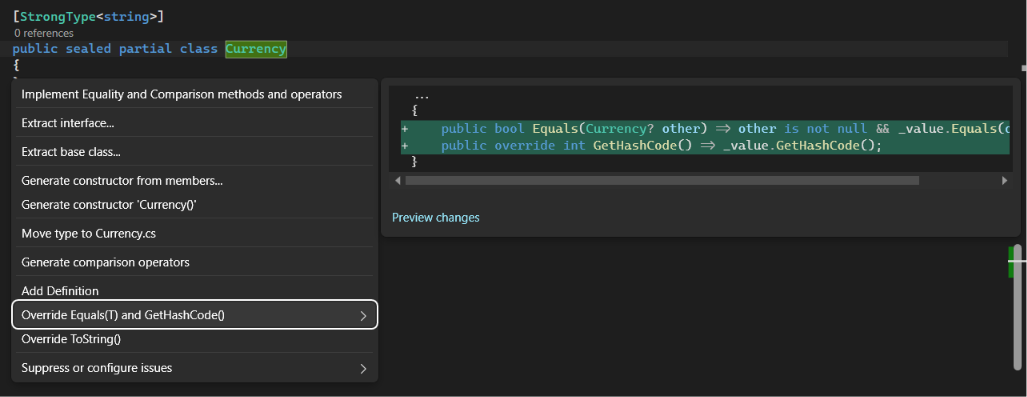
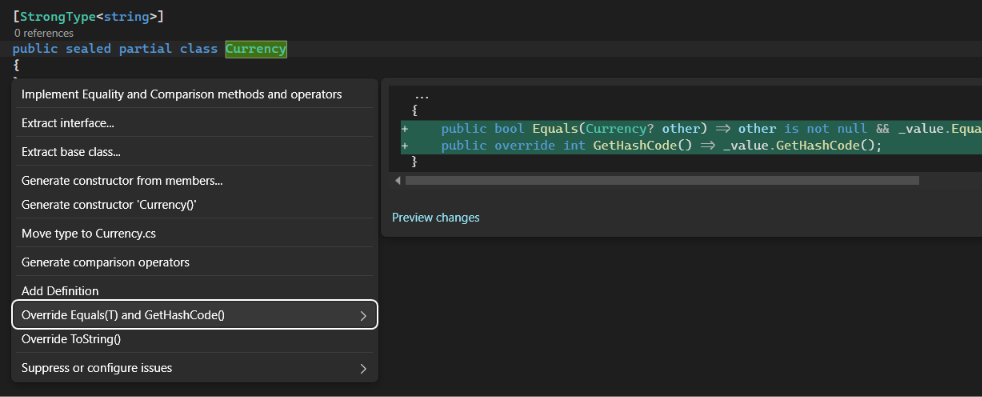
docs: add hot chocolate page

diff --git a/docs/src/integrations/hotchocolate.md b/docs/src/integrations/hotchocolate.md
@@ -1,5 +1,37 @@
-# HotChocolate
+# Hot Chocolate
 
-::: info Work in progress
-This page is being written.
+SuperStrong.Types integrates with [Hot Chocolate](https://chillicream.com/docs/hotchocolate). Strong types are exposed as custom GraphQL scalars.
+
+## Requirements
+
+This integration targets **Hot Chocolate 16**, so make sure your project uses it.
+
+## Installation
+
+First, install the package from [NuGet](https://www.nuget.org/packages/SuperStrong.Types.HotChocolate):
+
+::: code-group
+
+```sh-vue [.NET CLI]
+dotnet add package SuperStrong.Types.HotChocolate --version {{ $frontmatter.version }}
+```
+
+```xml-vue [PackageReference]
+<PackageReference Include="SuperStrong.Types.HotChocolate" Version="{{ $frontmatter.version }}" />
+```
+
 :::
+
+## Setup
+
+To enable the integration, call `AddStrongTypes()` on the GraphQL server:
+
+```csharp
+builder.Services
+    .AddGraphQL()
+    .AddStrongTypes();
+```
+
+Once enabled, every strong type is automatically exposed as a scalar based on its usage, so you don't need to register anything manually.
+
+The scalar is named after the type, serialized as its underlying primitive, and its input goes through `From(...)`, so it is always validated.

diff --git a/docs/src/integrations/ef-core.md b/docs/src/integrations/ef-core.md
@@ -2,6 +2,10 @@
 
 SuperStrong.Types integrates with [Entity Framework Core](https://learn.microsoft.com/ef/core/) to simplify strong types conversion, querying and more.
 
+## Requirements
+
+This integration targets **EF Core 10**, so make sure your project uses it.
+
 ## Installation
 
 First, install the package from [NuGet](https://www.nuget.org/packages/SuperStrong.Types.EntityFrameworkCore):